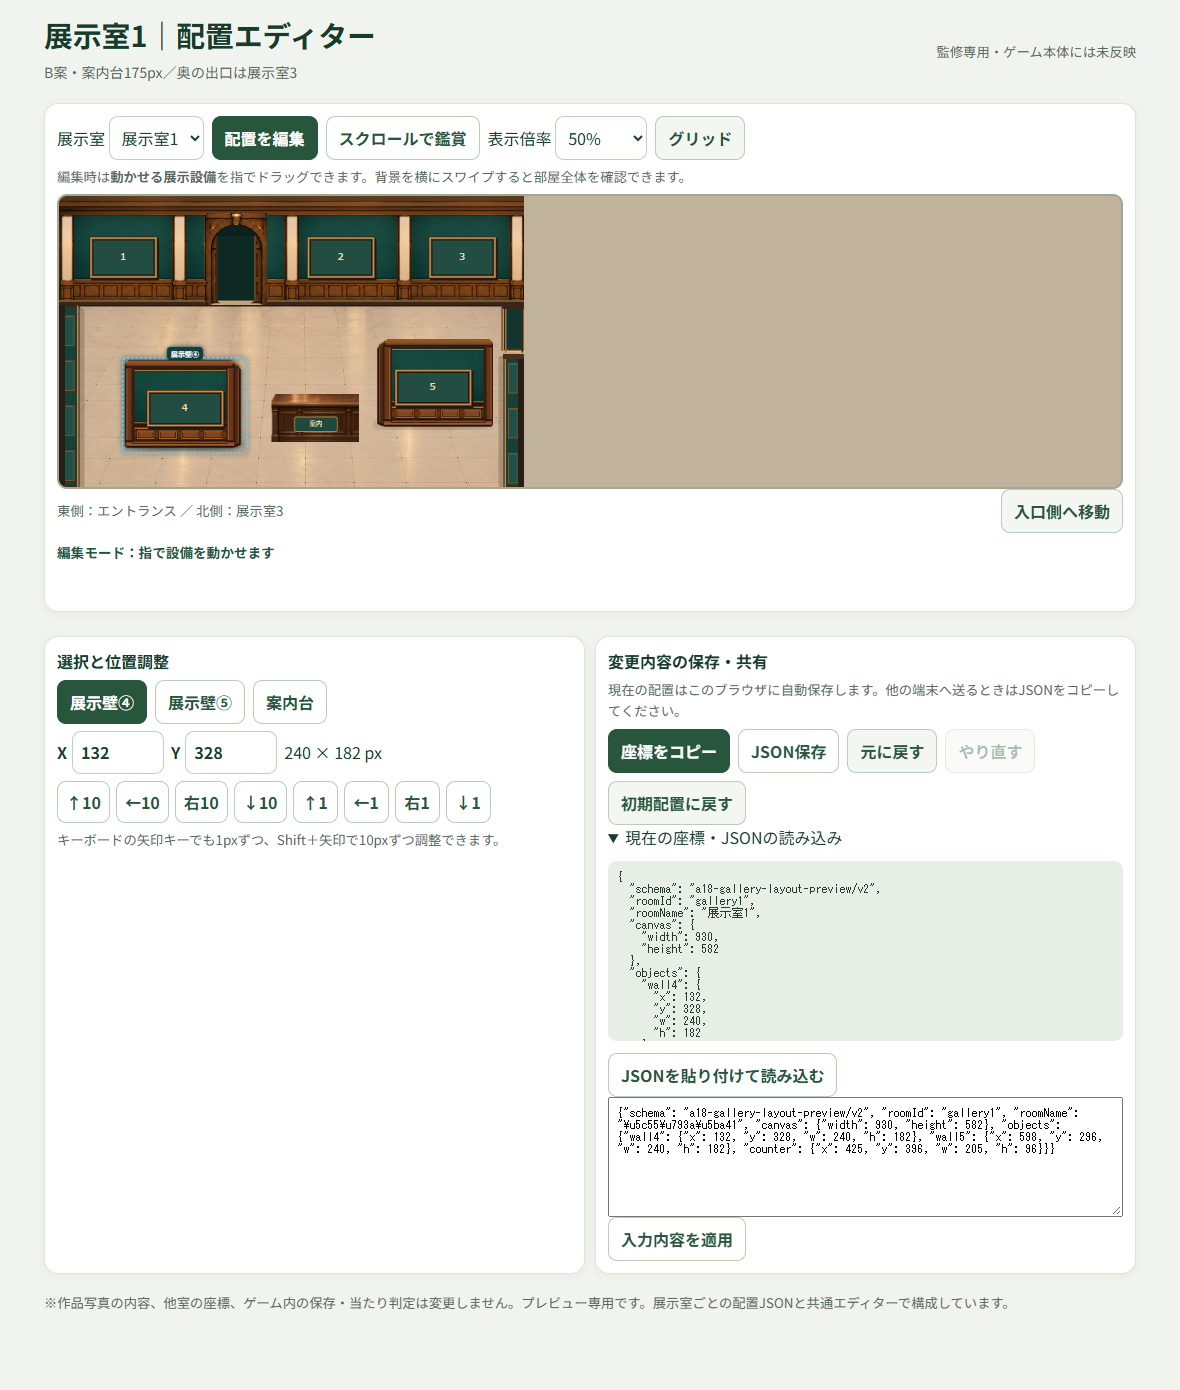
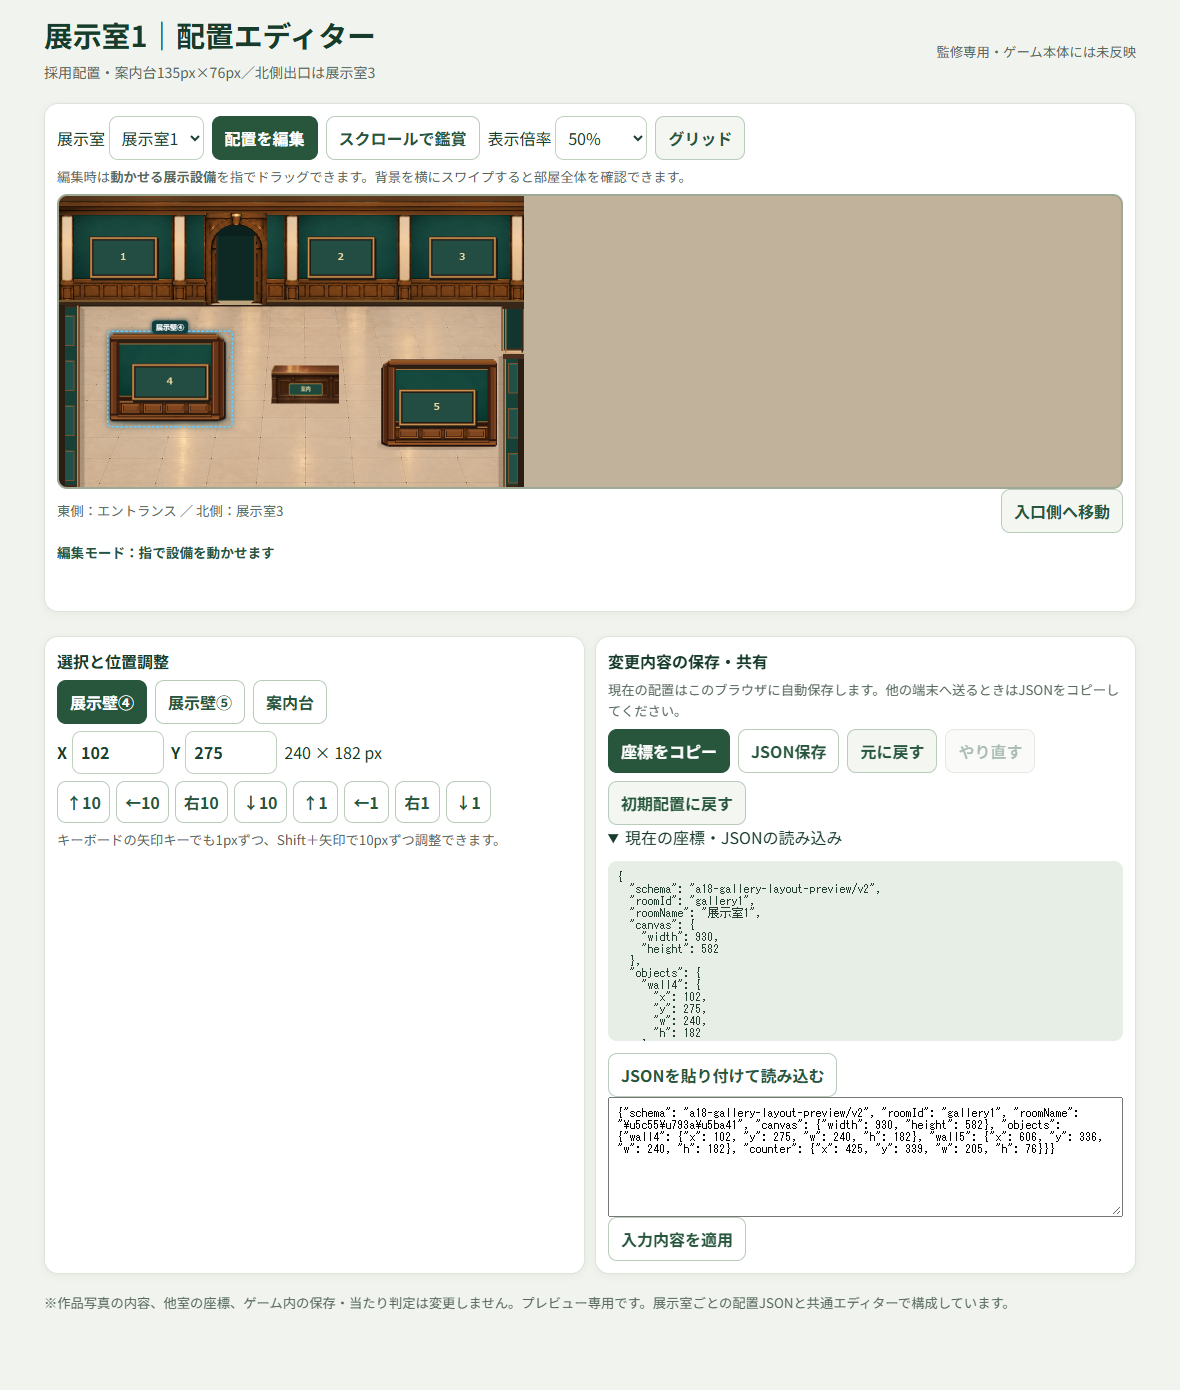
feat(a18): apply approved gallery1 positions and staff-ready 135px desk

Changed region(s): [[0.0915, 0.2165, 0.4271, 0.3403], [0.0305, 0.0309, 0.3051, 0.0619]]

diff --git a/qa/build_gallery1_counter_v07.py b/qa/build_gallery1_counter_v07.py
@@ -1,0 +1,44 @@
+"""Resize the approved preview's wooden gallery guide counter for staff behind it.
+
+User-approved positions are authoritative. Horizontal edges move inward 20px each.
+Only counter height is estimated for review (96->76 px), with exact top Y preserved.
+No staff artwork is invented or placed.
+"""
+from pathlib import Path
+from PIL import Image, ImageChops
+import json
+ROOT=Path(__file__).resolve().parents[1]
+ROOM=ROOT/'rooms/gallery1'
+old=ROOM/'counter175.png'
+assert old.is_file(),'Expected known previous asset is absent'
+im=Image.open(old).convert('RGBA')
+assert im.size==(175,96),im.size
+# Result: x 405+20=425, 175-40=135, y339 retained.
+new=im.resize((135,76), Image.Resampling.LANCZOS)
+new_path=ROOM/'counter135_staff.png'
+new.save(new_path,optimize=True)
+assert Image.open(new_path).size==(135,76)
+p=ROOM/'room.json'
+data=json.loads(p.read_text(encoding='utf-8'))
+assert data['id']=='gallery1' and data['size']=={'width':930,'height':582}
+found={o['id']:o for o in data['objects']}
+assert set(found)=={'wall4','wall5','counter'}
+assert found['counter']['rect']=={'x':425,'y':396,'w':175,'h':96}
+assert found['wall4']['rect']=={'x':132,'y':328,'w':240,'h':182}
+assert found['wall5']['rect']=={'x':628,'y':286,'w':240,'h':182}
+found['wall4']['rect']={'x':102,'y':275,'w':240,'h':182}
+found['wall5']['rect']={'x':636,'y':326,'w':240,'h':182}
+found['counter']['rect']={'x':425,'y':339,'w':135,'h':76}
+found['counter']['image']='rooms/gallery1/counter135_staff.png'
+data['subtitle']='採用配置・案内台135px×76px／北側出口は展示室3'
+data['layoutRevision']='v07-user-positions-counter135-staff-space'
+data['staffPlacement']={
+ 'status':'not placed',
+ 'intent':'place staff behind the guide desk later',
+ 'counterResize':'height 96px -> 76px provisional to reveal staff; top y=339 preserved',
+ 'staffArt':'not chosen',
+}
+data['origin']='User layout JSON 2026-10-28; preserved coordinates except centered counter width and provisional height'
+p.write_text(json.dumps(data,ensure_ascii=False,indent=2)+'\n',encoding='utf-8')
+print('PASS gallery1 v07 JSON; resized preview counter',new.size,'centerX',425+135/2)
+print('STAFF: not rendered; 76px counter height is a review candidate')

diff --git a/qa/check_reuse.py b/qa/check_reuse.py
@@ -14,14 +14,14 @@ with TemporaryDirectory(prefix='a18-layout-room-reuse-') as tmp:
     (root/'rooms/testroom').mkdir(parents=True)
     for name in ['index.html','editor.js']:
         copy2(SOURCE/name,root/name)
-    for name in ['architecture.png','side-walls.png','counter175.png']:
+    for name in ['architecture.png','side-walls.png','counter135_staff.png']:
         copy2(SOURCE/'rooms/gallery1'/name,root/'rooms/testroom'/name)
     for p in (SOURCE/'rooms/gallery1').glob('*'):
         copy2(p,root/'rooms/gallery1'/p.name)
     config=json.loads((SOURCE/'rooms/gallery1/room.json').read_text('utf8'))
     config.update(id='testroom',name='仮テスト展示室',subtitle='実サイトには公開しないQA用')
-    config['objects']=[{'id':'fixture-alpha','label':'仮配置設備','image':'rooms/testroom/counter175.png',
-                         'rect':{'x':200,'y':380,'w':175,'h':96}}]
+    config['objects']=[{'id':'fixture-alpha','label':'仮配置設備','image':'rooms/testroom/counter135_staff.png',
+                         'rect':{'x':200,'y':380,'w':135,'h':76}}]
     config['background']='rooms/testroom/architecture.png'
     config['foreground']='rooms/testroom/side-walls.png'
     (root/'rooms/testroom/room.json').write_text(json.dumps(config,ensure_ascii=False),encoding='utf8')
@@ -50,7 +50,7 @@ with TemporaryDirectory(prefix='a18-layout-room-reuse-') as tmp:
             page.locator('#room-select').select_option('gallery1')
             page.wait_for_function('window.__A18_LAYOUT_EDITOR__.getState().roomId==="gallery1"')
             assert list(get()['objects'])==['wall4','wall5','counter']
-            assert get()['objects']['counter']['w']==175
+            assert get()['objects']['counter']['w']==135 and get()['objects']['counter']['h']==76
             page.locator('#room-select').select_option('testroom')
             page.wait_for_function('window.__A18_LAYOUT_EDITOR__.getState().roomId==="testroom"')
             assert get()['objects']['fixture-alpha']['x']==210

diff --git a/qa/check_gallery1_v07.py b/qa/check_gallery1_v07.py
@@ -1,0 +1,41 @@
+"""Read-only acceptance test for user-supplied Gallery1 v07 geometry.
+
+The staff is intentionally NOT placed; verify guide counter has the proposed
+clearance size and that only this room's movable layout records are changed.
+"""
+from pathlib import Path
+from PIL import Image,ImageChops
+import json
+ROOT=Path(__file__).resolve().parent.parent
+R=ROOT/"rooms/gallery1"
+room=json.loads((R/"room.json").read_text(encoding="utf-8"))
+assert room["schema"]=="a18-gallery-editor/room-v1"
+assert room["id"]=="gallery1"
+assert room["size"]=={"width":930,"height":582}
+assert room["entrance"]=="東側：エントランス"
+assert room["exit"]=="北側：展示室3"
+frames={o["id"]:o for o in room["objects"]}
+assert set(frames)=={"wall4","wall5","counter"}
+assert frames["wall4"]["rect"]=={"x":102,"y":275,"w":240,"h":182}
+assert frames["wall5"]["rect"]=={"x":636,"y":326,"w":240,"h":182}
+assert frames["counter"]["rect"]=={"x":425,"y":339,"w":135,"h":76}
+assert frames["counter"]["image"]=="rooms/gallery1/counter135_staff.png"
+assert room["staffPlacement"]["status"]=="not placed"
+assert room["staffPlacement"]["staffArt"]=="not chosen"
+
+old=Image.open(R/"counter175.png").convert("RGBA")
+new=Image.open(R/"counter135_staff.png").convert("RGBA")
+assert old.size==(175,96)
+assert new.size==(135,76)
+assert new.getbbox() is not None
+assert ImageChops.difference(old.resize((135,76),Image.Resampling.LANCZOS),new).getbbox() is None
+assert 405+175/2==425+135/2==492.5
+assert len({(o["id"],o["image"]) for o in room["objects"]})==3
+for key in ("wall4","wall5"):
+    o=frames[key]
+    with Image.open(ROOT/o["image"]) as sprite:
+        assert sprite.size==(o["rect"]["w"],o["rect"]["h"])
+for asset in ("architecture.png","side-walls.png"):
+    with Image.open(R/asset) as sprite:
+        assert sprite.size==(930,582)
+print("PASS v07 exact user wall locations, centered 135x76 counter, 76px provisional staff clearance, untouched architecture/5 display layout")

diff --git a/qa/check_editor.py b/qa/check_editor.py
@@ -24,7 +24,7 @@ try:
    state=lambda:page.evaluate('window.__A18_LAYOUT_EDITOR__.getState()')
    s=state()
    assert s['roomId']=='gallery1'
-   assert s['objects']['counter']==dict(x=425,y=396,w=175,h=96)
+   assert s['objects']['counter']==dict(x=425,y=339,w=135,h=76)
    assert page.locator('[data-object]').count()==3
    assert page.locator('#warning').inner_text()==''
    assert page.locator('#stage img').count()==5
@@ -44,10 +44,10 @@ try:
    assert rect and rect['width']>100,(w,rect)
    x=rect['x']+rect['width']*.5;y=rect['y']+rect['height']*.65
    page.mouse.move(x,y);page.mouse.down();page.mouse.move(x-24,y+8,steps=5);page.mouse.up()
-   assert state()['objects']['wall5']['x']==598,state()['objects']['wall5']
+   assert state()['objects']['wall5']['x']==606 and state()['objects']['wall5']['y']==336,state()['objects']['wall5']
    page.reload(wait_until='networkidle')
    page.wait_for_function('typeof window.__A18_LAYOUT_EDITOR__ === "object"',timeout=10000)
-   assert state()['objects']['wall5']['x']==598
+   assert state()['objects']['wall5']['x']==606
    page.locator('summary').click();page.locator('#show-import').click()
    bad=state();bad['objects']['counter']['w']=205
    page.locator('#json-text').fill(json.dumps(bad))
@@ -55,7 +55,7 @@ try:
    assert '失敗' in page.locator('#status').inner_text()
    page.once('dialog',lambda diag:diag.accept())
    page.locator('#reset').click()
-   assert state()['objects']['wall5']['x']==628
+   assert state()['objects']['wall5']['x']==636
    page.locator('#pan-mode').click()
    assert page.locator('[data-object=wall4]').evaluate('e=>getComputedStyle(e).pointerEvents')=='none'
    page.locator('#zoom').select_option('.5')

diff --git a/README.md b/README.md
@@ -9,7 +9,7 @@
 3. X/Y座標の直接入力、±1px・±10pxの位置調整も可能。プレビュー上での変更は同じブラウザにのみ自動保存される。
 4. 「座標をコピー」でJSONをチャットへ貼り付ける、または「JSON保存」する。別端末はJSONの読み込みで復元できる。
 
-**初期配置**：展示壁④=(132,328,240,182)、展示壁⑤=(628,286,240,182)、案内台=(425,396,175,96)。カウンターの旧幅205pxから左右各15px縮小、中心は維持。背景・左右壁・奥の展示3枠・北側出口は固定。
+**展示室1 v07の初期配置**：展示壁④=(102,275,240,182)、展示壁⑤=(636,326,240,182)、案内台=(425,339,135,76)。案内台は利用者指定の175px幅から左右各20px縮小し、中央X=492.5を維持。高さ96→76pxはスタッフを後方に配置するための仮寸法で、スタッフ素材そのものは未配置です。背景・左右壁・奥の展示3枠・北側出口は固定。
 
 ## 他の展示室の追加
 
@@ -30,4 +30,4 @@
 - `main`：このリポジトリの基礎・保護対象。ユーザー指示なしで作業中のプレビューを統合しない。
 - `issue/a18-gallery-layout-preview-20261028`：課題統合先（まだ未統合）。
 - `work/a18-gallery-layout-preview-20261028`：現在のプレビュー開発・配信ブランチ。プレビューのみこのブランチから配信し、ゲーム正式版とは明確に区別する。
-- QA: `python qa/check_editor.py`。専用ChromeによるPC・スマホ幅の動作確認。
+- QA: `python qa/check_editor.py`、`python qa/check_reuse.py`、`python qa/check_gallery1_v07.py`。専用ChromeによるPC・スマホ幅の動作確認と、共通エディターの部屋切替・配置寸法検証。
